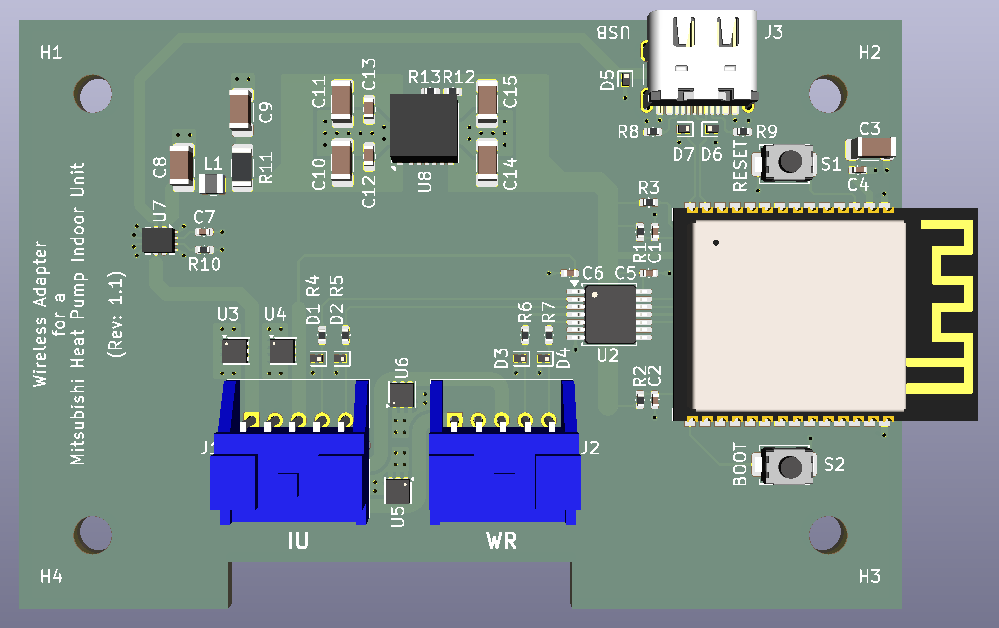
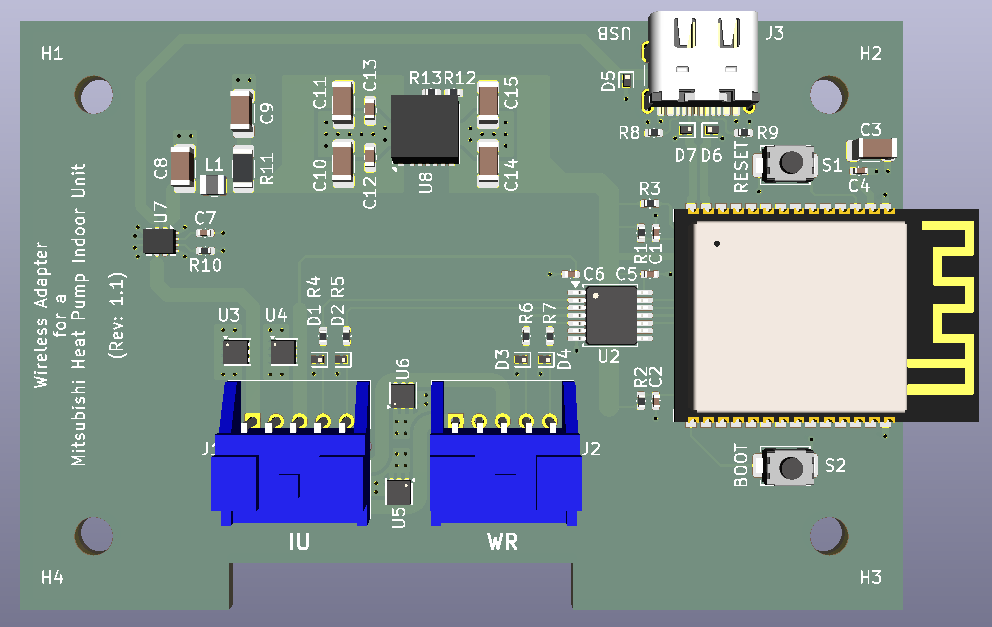
Improve USB differential routing.

diff --git a/docs/hardware.md b/docs/hardware.md
@@ -6,6 +6,7 @@ The current design is the same circuit design and PCB layout as the design I had
 
 - I changed the value of capacitor C2 from 1μF to 0.1μF,
 - I removed instances of different signals sharing one ground via from the PCB,
+- I improved the USB data lines differential routing,
 - I removed the wall mounting passthrough hole from the PCB,
 - I added the name and revision to the PCB,
 - I switched from a hierarchical schematic to a flat schematic, and
